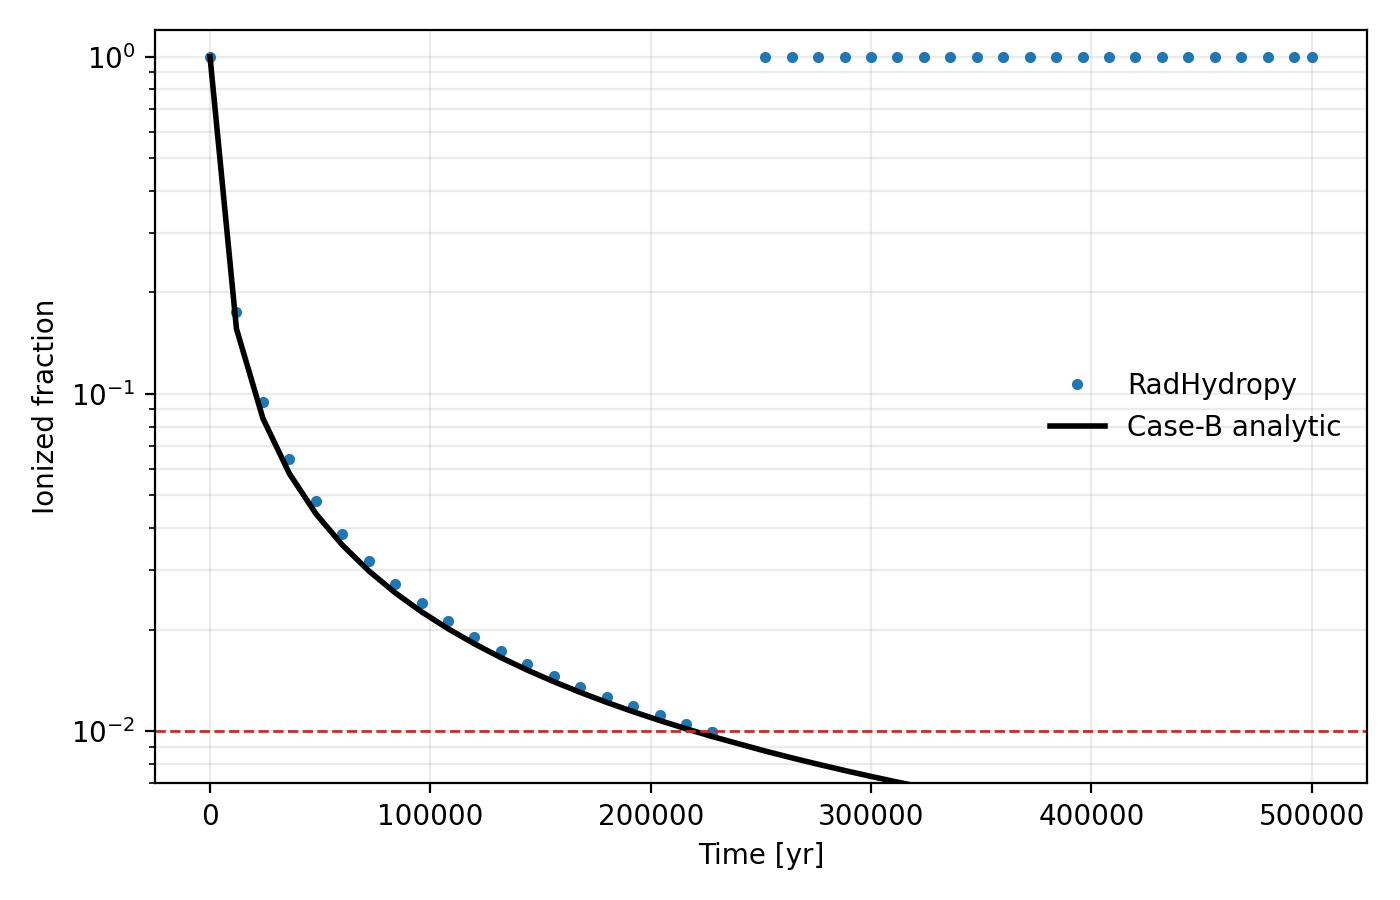
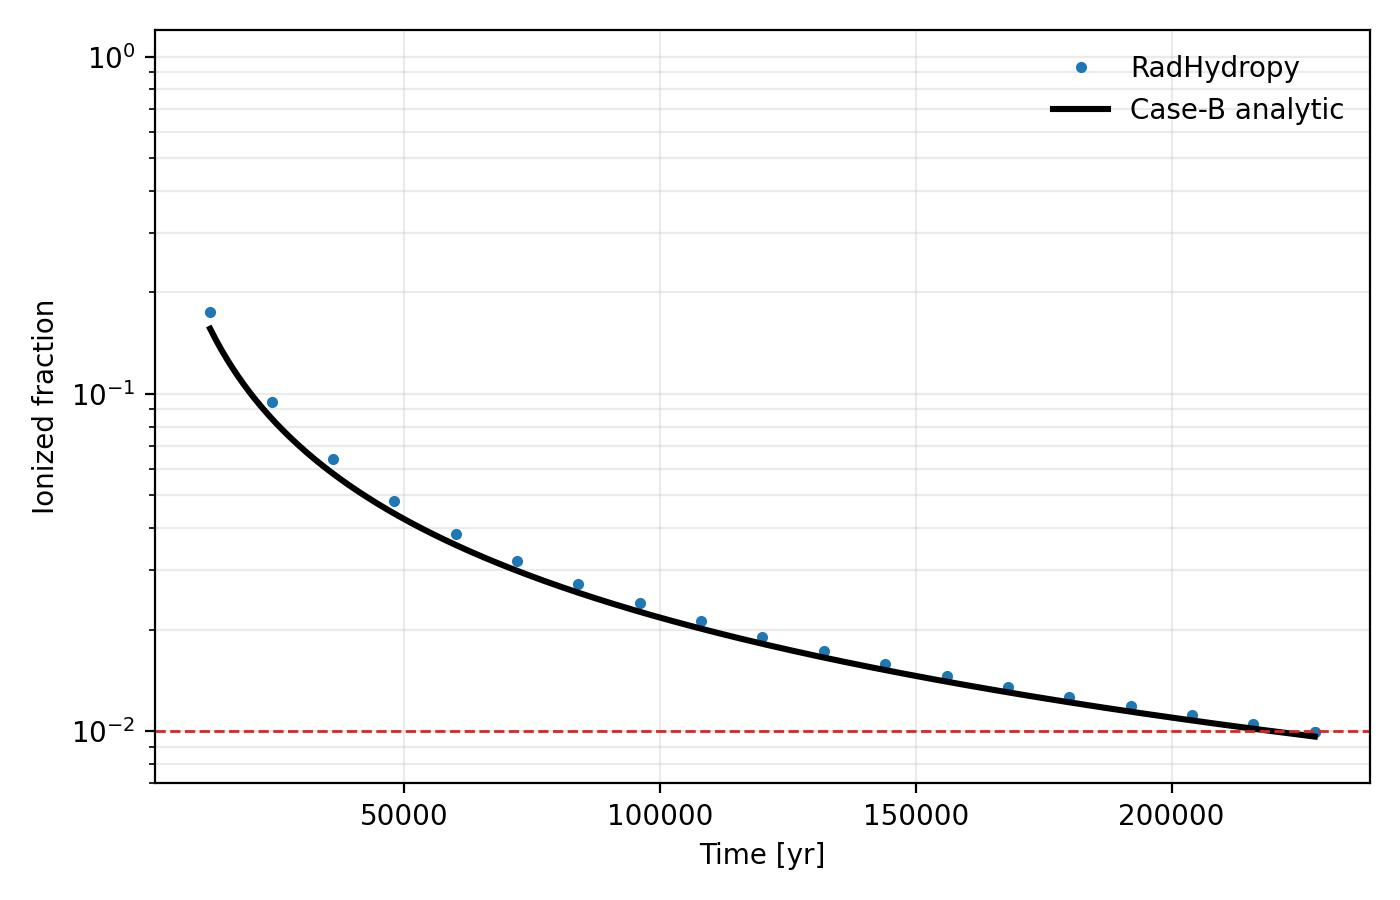
debug RadHydropy/example/HydrogenRecombination1D/hydrogen_recombination1d.py

diff --git a/example/HydrogenRecombination1D/tools.py b/example/HydrogenRecombination1D/tools.py
@@ -23,6 +23,12 @@ class Fluid:
     pass
 
 
+def _values_in_unit(array, unit):
+    if hasattr(array, 'to_value'):
+        return np.asarray(array.to_value(unit), dtype=float)
+    return np.asarray(array, dtype=float)
+
+
 class Simwrap:
     def __init__(self, icparams):
         self.par = Par()
@@ -58,7 +64,7 @@ def interior_slice(sim):
 
 def mean_temperature(sim):
     interior = interior_slice(sim)
-    return np.mean(sim.fluid.temp[interior].to_value(unyt.K)) * unyt.K
+    return np.mean(_values_in_unit(sim.fluid.temp[interior], unyt.K)) * unyt.K
 
 
 def mean_neutral_fraction(sim):
@@ -71,7 +77,15 @@ def mean_ionized_fraction(sim):
 
 
 def time_value(sim, units):
-    return float(np.ravel(sim.fluid.time.to_value(units))[0])
+    time = sim.fluid.time
+    if hasattr(time, 'to_value'):
+        return float(np.ravel(time.to_value(units))[0])
+    code = getattr(sim.par, 'code_units', getattr(sim.par, 'CodeUnits', None))
+    if code is not None:
+        return float(
+            np.ravel((np.asarray(time, dtype=float) * code.time_unit).to_value(units))[0]
+        )
+    return float(np.ravel(np.asarray(time, dtype=float))[0])
 
 
 def load_history_from_outputs(outputfiles, icparams, noghost):
@@ -83,7 +97,7 @@ def load_history_from_outputs(outputfiles, icparams, noghost):
         rio.readhdf5(rout.par, rout.mesh, rout.fluid, outfilename)
         history['time_yr'].append(time_value(rout, unyt.yr))
         history['temperature_K'].append(
-            np.mean(rout.fluid.temp[interior].to_value(unyt.K))
+            np.mean(_values_in_unit(rout.fluid.temp[interior], unyt.K))
         )
         history['ionized_fraction'].append(
             1.0 - float(np.mean(rout.fluid.xHI[interior]))
@@ -110,8 +124,12 @@ def run_hydrogen_recombination(sim, target_neutral_fraction, outputtime=0):
 def save_history_plot(history, filename, icparams, target_neutral_fraction):
     time_yr = np.asarray(history['time_yr'])
     ionized_fraction = np.asarray(history['ionized_fraction'])
-    analytic = hra.ionized_fraction(
-        time_yr,
+    if time_yr.size > 1:
+        dense_time_yr = np.linspace(time_yr.min(), time_yr.max(), 400)
+    else:
+        dense_time_yr = time_yr
+    dense_analytic = hra.ionized_fraction(
+        dense_time_yr,
         icparams['xHIini'],
         icparams['tempini'],
         icparams['nHini'],
@@ -128,10 +146,10 @@ def save_history_plot(history, filename, icparams, target_neutral_fraction):
         label='RadHydropy',
     )
     ax.plot(
-        time_yr,
-        analytic,
+        dense_time_yr,
+        dense_analytic,
         color='black',
-        lw=2.0,
+        lw=2.2,
         label='Case-B analytic',
     )
     ax.axhline(
